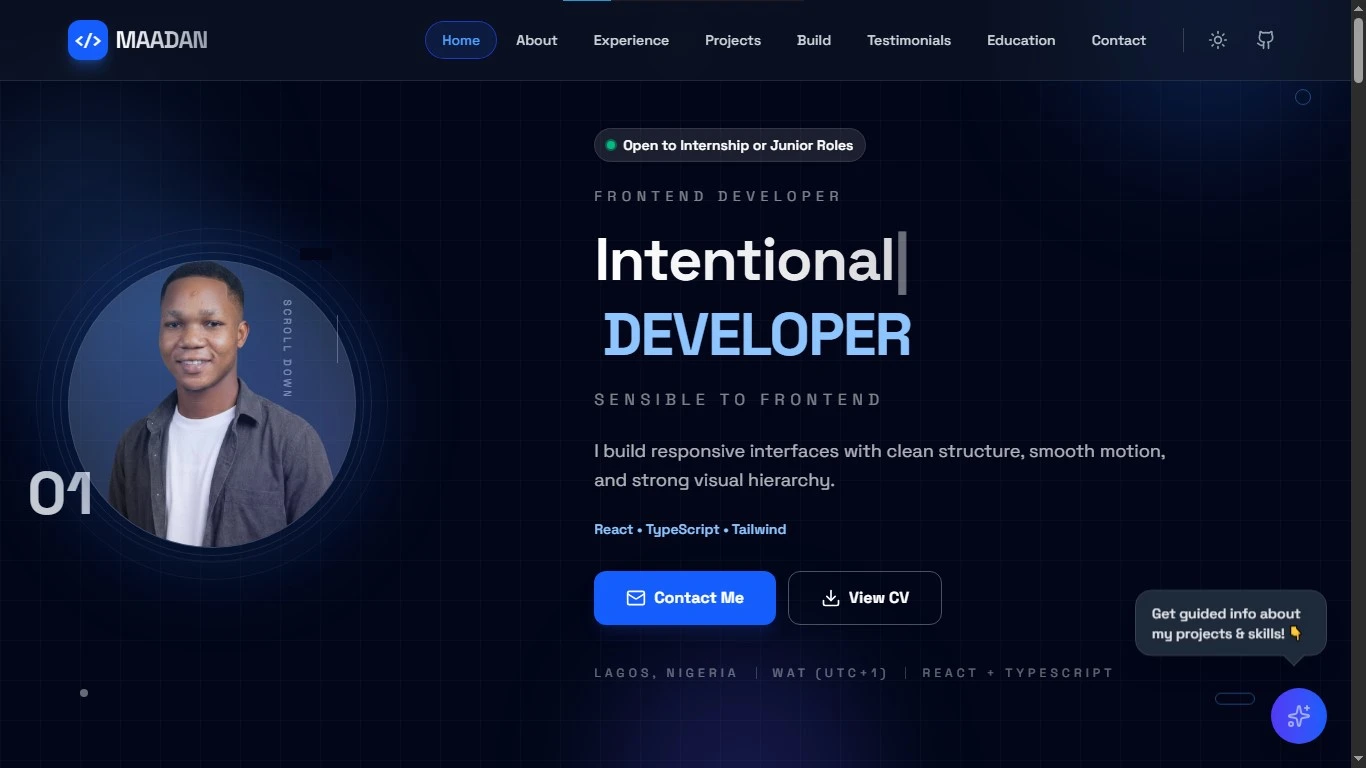
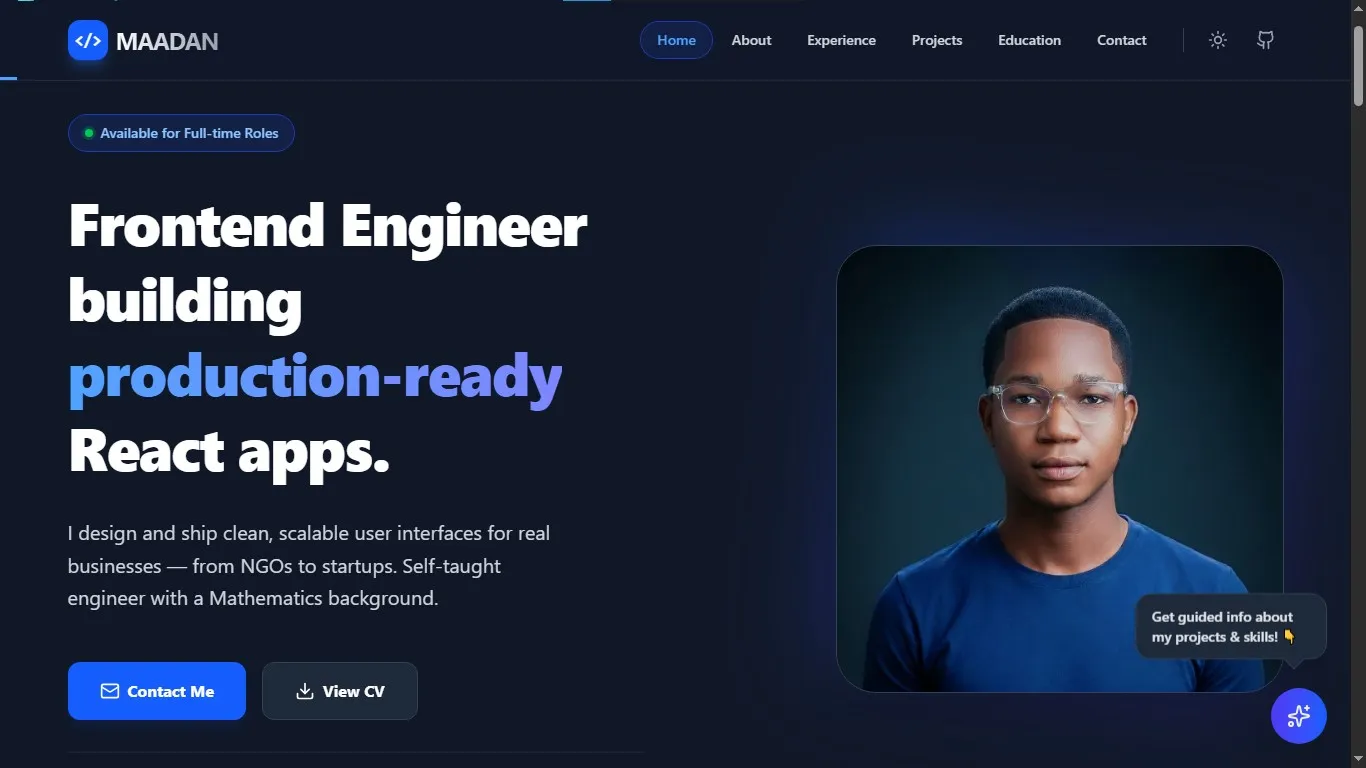
feat: Add Amb. Alabi Issa project, convert images to WebP, elevate Projects UI

diff --git a/src/components/sections/Projects.tsx b/src/components/sections/Projects.tsx
@@ -11,86 +11,86 @@ export const Projects = () => {
         <div className="grid sm:grid-cols-2 lg:grid-cols-3 gap-6 md:gap-8">
           {projects.map((project, index) => (
             <RevealOnScroll key={index}>
-            <div className="group flex flex-col h-full bg-white dark:bg-gray-700 rounded-2xl border border-gray-100 dark:border-gray-600 shadow-sm hover:shadow-xl hover:border-blue-100 dark:hover:border-blue-900 transition-all duration-300 overflow-hidden hover:-translate-y-2">
-              <div className="h-48 sm:h-56 bg-linear-to-br from-gray-100 to-gray-200 dark:from-gray-800 dark:to-gray-900 relative overflow-hidden group-hover:from-blue-50 dark:group-hover:from-gray-800 group-hover:to-indigo-50 dark:group-hover:to-gray-900 transition-colors">
-                
-                {project.image ? (
-                   <div className="w-full h-full relative">
-                      <img 
-                        src={project.image} 
+              <div className="group flex flex-col h-full bg-white dark:bg-gray-800/80 rounded-2xl border border-gray-100 dark:border-gray-700 shadow-sm hover:shadow-2xl hover:shadow-blue-500/10 dark:hover:shadow-blue-900/20 hover:border-blue-200 dark:hover:border-blue-800 transition-all duration-500 overflow-hidden hover:-translate-y-2 backdrop-blur-sm">
+                <div className="h-48 sm:h-56 bg-linear-to-br from-gray-100 to-gray-200 dark:from-gray-800 dark:to-gray-900 relative overflow-hidden group-hover:from-blue-50 dark:group-hover:from-gray-800 group-hover:to-indigo-50 dark:group-hover:to-gray-900 transition-colors">
+
+                  {project.image ? (
+                    <div className="w-full h-full relative">
+                      <img
+                        src={project.image}
                         alt={project.title}
                         className="w-full h-full object-cover transition-transform duration-500 group-hover:scale-105"
                         onError={(e) => {
                           e.currentTarget.style.display = 'none';
                           const fallback = document.getElementById(`project-fallback-${index}`);
-                          if(fallback) fallback.style.display = 'flex';
+                          if (fallback) fallback.style.display = 'flex';
                         }}
                       />
                       <div id={`project-fallback-${index}`} className="hidden absolute inset-0 flex-col items-center justify-center bg-gray-50 dark:bg-gray-800">
-                         <Globe size={40} className="text-gray-300 dark:text-gray-600" />
+                        <Globe size={40} className="text-gray-300 dark:text-gray-600" />
                       </div>
-                   </div>
-                ) : (
-                  <div className="absolute top-4 left-4 right-4 h-full bg-white dark:bg-gray-800 rounded-t-lg shadow-lg transform translate-y-2 group-hover:translate-y-0 transition-transform duration-500 flex flex-col">
-                     <div className="h-6 bg-gray-50 dark:bg-gray-700 border-b border-gray-100 dark:border-gray-600 flex items-center px-3 gap-1.5">
+                    </div>
+                  ) : (
+                    <div className="absolute top-4 left-4 right-4 h-full bg-white dark:bg-gray-800 rounded-t-lg shadow-lg transform translate-y-2 group-hover:translate-y-0 transition-transform duration-500 flex flex-col">
+                      <div className="h-6 bg-gray-50 dark:bg-gray-700 border-b border-gray-100 dark:border-gray-600 flex items-center px-3 gap-1.5">
                         <div className="w-2 h-2 rounded-full bg-red-400"></div>
                         <div className="w-2 h-2 rounded-full bg-yellow-400"></div>
                         <div className="w-2 h-2 rounded-full bg-green-400"></div>
-                     </div>
-                     <div className="flex-1 flex items-center justify-center bg-dot-pattern text-gray-300 dark:text-gray-600">
+                      </div>
+                      <div className="flex-1 flex items-center justify-center bg-dot-pattern text-gray-300 dark:text-gray-600">
                         <Globe size={40} className="group-hover:text-blue-400 transition-colors" />
-                     </div>
-                  </div>
-                )}
-
-              </div>
-
-              {project.gallery && project.gallery.length > 0 ? (
-                <div className="grid grid-cols-2 gap-2 px-4 py-3 bg-white dark:bg-gray-700 border-b border-gray-100 dark:border-gray-600">
-                  {project.gallery.slice(0, 2).map((imageSrc, galleryIndex) => (
-                    <div key={imageSrc} className="h-20 rounded-xl overflow-hidden border border-gray-100 dark:border-gray-600 bg-gray-50 dark:bg-gray-800">
-                      <img
-                        src={imageSrc}
-                        alt={`${project.title} gallery ${galleryIndex + 1}`}
-                        className="w-full h-full object-cover"
-                      />
+                      </div>
                     </div>
-                  ))}
-                </div>
-              ) : null}
+                  )}
 
-              <div className="p-6 md:p-8 flex flex-col grow">
-                <h3 className="text-xl font-bold text-gray-900 dark:text-white mb-3 group-hover:text-blue-600 dark:group-hover:text-blue-400 transition-colors">{project.title}</h3>
-                <div className="flex flex-wrap gap-2 mb-6">
-                  {project.tech.map((t) => (
-                    <span key={t} className="text-xs font-semibold px-2.5 py-1 bg-gray-50 dark:bg-gray-800 text-gray-600 dark:text-gray-300 rounded-md border border-gray-100 dark:border-gray-700">
-                      {t}
-                    </span>
-                  ))}
                 </div>
-                <ul className="space-y-3 mb-8 grow">
-                  {project.description.map((desc, i) => (
-                    <li key={i} className="text-sm text-gray-600 dark:text-gray-300 flex items-start gap-2">
-                       <ChevronRight size={16} className="text-blue-400 shrink-0 mt-0.5" />
-                       {desc}
-                    </li>
-                  ))}
-                </ul>
-                {project.link ? (
-                  <div className="mt-auto pt-6 border-t border-gray-50 dark:border-gray-600">
-                    <a 
-                      href={project.link} 
-                      target="_blank"
-                      rel="noreferrer"
-                      className="inline-flex items-center text-gray-900 dark:text-white font-semibold text-sm hover:text-blue-600 dark:hover:text-blue-400 transition-colors group/link"
-                    >
-                      View Live Project 
-                      <ExternalLink size={16} className="ml-2 group-hover/link:translate-x-1 transition-transform" />
-                    </a>
+
+                {project.gallery && project.gallery.length > 0 ? (
+                  <div className="grid grid-cols-2 gap-2 px-4 py-3 bg-white dark:bg-gray-700 border-b border-gray-100 dark:border-gray-600">
+                    {project.gallery.slice(0, 2).map((imageSrc, galleryIndex) => (
+                      <div key={imageSrc} className="h-20 rounded-xl overflow-hidden border border-gray-100 dark:border-gray-600 bg-gray-50 dark:bg-gray-800">
+                        <img
+                          src={imageSrc}
+                          alt={`${project.title} gallery ${galleryIndex + 1}`}
+                          className="w-full h-full object-cover"
+                        />
+                      </div>
+                    ))}
                   </div>
                 ) : null}
+
+                <div className="p-6 md:p-8 flex flex-col grow">
+                  <h3 className="text-xl font-bold text-gray-900 dark:text-white mb-3 group-hover:text-blue-600 dark:group-hover:text-blue-400 transition-colors">{project.title}</h3>
+                  <div className="flex flex-wrap gap-2 mb-6">
+                    {project.tech.map((t) => (
+                      <span key={t} className="text-xs font-medium px-3 py-1 bg-blue-50/50 dark:bg-blue-900/40 text-blue-600 dark:text-blue-300 rounded-full border border-blue-100/50 dark:border-blue-800/30">
+                        {t}
+                      </span>
+                    ))}
+                  </div>
+                  <ul className="space-y-3 mb-8 grow">
+                    {project.description.map((desc, i) => (
+                      <li key={i} className="text-sm text-gray-600 dark:text-gray-300 flex items-start gap-2">
+                        <ChevronRight size={16} className="text-blue-400 shrink-0 mt-0.5" />
+                        {desc}
+                      </li>
+                    ))}
+                  </ul>
+                  {project.link ? (
+                    <div className="mt-auto pt-6 border-t border-gray-50 dark:border-gray-600">
+                      <a
+                        href={project.link}
+                        target="_blank"
+                        rel="noreferrer"
+                        className="inline-flex items-center text-gray-900 dark:text-white font-semibold text-sm hover:text-blue-600 dark:hover:text-blue-400 transition-colors group/link"
+                      >
+                        View Live Project
+                        <ExternalLink size={16} className="ml-2 group-hover/link:translate-x-1 transition-transform" />
+                      </a>
+                    </div>
+                  ) : null}
+                </div>
               </div>
-            </div>
             </RevealOnScroll>
           ))}
         </div>

diff --git a/src/data/content.ts b/src/data/content.ts
@@ -39,7 +39,7 @@ export const experiences: Experience[] = [
     role: "STEM Educator (NYSC)",
     company: "Royal Brook International School",
     period: "Dec 2024 - Dec 2025",
-    image: "/images/nysc-professional.jpg",
+    image: "/images/nysc-professional.webp",
     description: [
       "Taught Mathematics and Further Mathematics to SSS 1-3, breaking down complex logic into understandable concepts.",
       "Managed classroom performance data to identify learning gaps and adjust teaching strategies.",
@@ -71,6 +71,17 @@ export const experiences: Experience[] = [
 
 export const projects: Project[] = [
   {
+    title: "Amb. (Dr.) Alabi Issa Executive Portfolio",
+    tech: ["React", "JavaScript", "Tailwind CSS"],
+    description: [
+      "Role: Frontend Developer.",
+      "Goal: Build a high-profile executive presence.",
+      "Design: Implemented a modern, authoritative design system."
+    ],
+    image: "/images/segunalabi.webp",
+    link: "https://segunalabi.me"
+  },
+  {
     title: "ATEKER Luxury Safaris Platform",
     tech: ["React", "TypeScript", "Tailwind", "Framer Motion"],
     description: [
@@ -79,7 +90,7 @@ export const projects: Project[] = [
       "Design: Refreshed the brand identity (Logo & Color Palette).",
       "Outcome: delivered a modern, mobile-responsive landing page component."
     ],
-    image: "/images/ensii.jpg",
+    image: "/images/ensii.webp",
     link: "https://ensiisafaris.ca/"
   },
   {
@@ -101,7 +112,7 @@ export const projects: Project[] = [
       "Work: Configured responsive themes and managed content structure.",
       "Focus: Accessibility and content readability."
     ],
-    image: "/images/project2.jpg",
+    image: "/images/project2.webp",
     link: "https://www.jtffoundation.org"
   }
 ];
@@ -118,7 +129,7 @@ export const education: Education = {
   degree: "Bachelor of Science (B.Sc.) in Mathematics",
   school: "Federal University of Agriculture, Abeokuta",
   period: "Oct 2019 - Aug 2024",
-  image: "/images/convocation.jpg",
+  image: "/images/convocation.webp",
   details: [
     "Final Year Project: 'Some Application of First Order Delay Differential Equation in Biology.'",
     "Applied mathematical logic to software algorithms and state management complexity."

diff --git a/src/components/sections/Hero.tsx b/src/components/sections/Hero.tsx
@@ -100,7 +100,7 @@ export const Hero = ({ scrollToContact }: { scrollToContact: () => void }) => {
                     <div className="absolute inset-0 bg-[radial-gradient(circle_at_70%_80%,rgba(99,102,241,0.18),transparent_60%)]" />
                     {!imgError ? (
                       <img
-                        src="/images/hero-transparent.png"
+                        src="/images/hero-transparent.webp"
                         alt={`${personalInfo.name} portrait`}
                         className="w-full h-full object-cover object-[50%_20%]"
                         onError={() => setImgError(true)}
